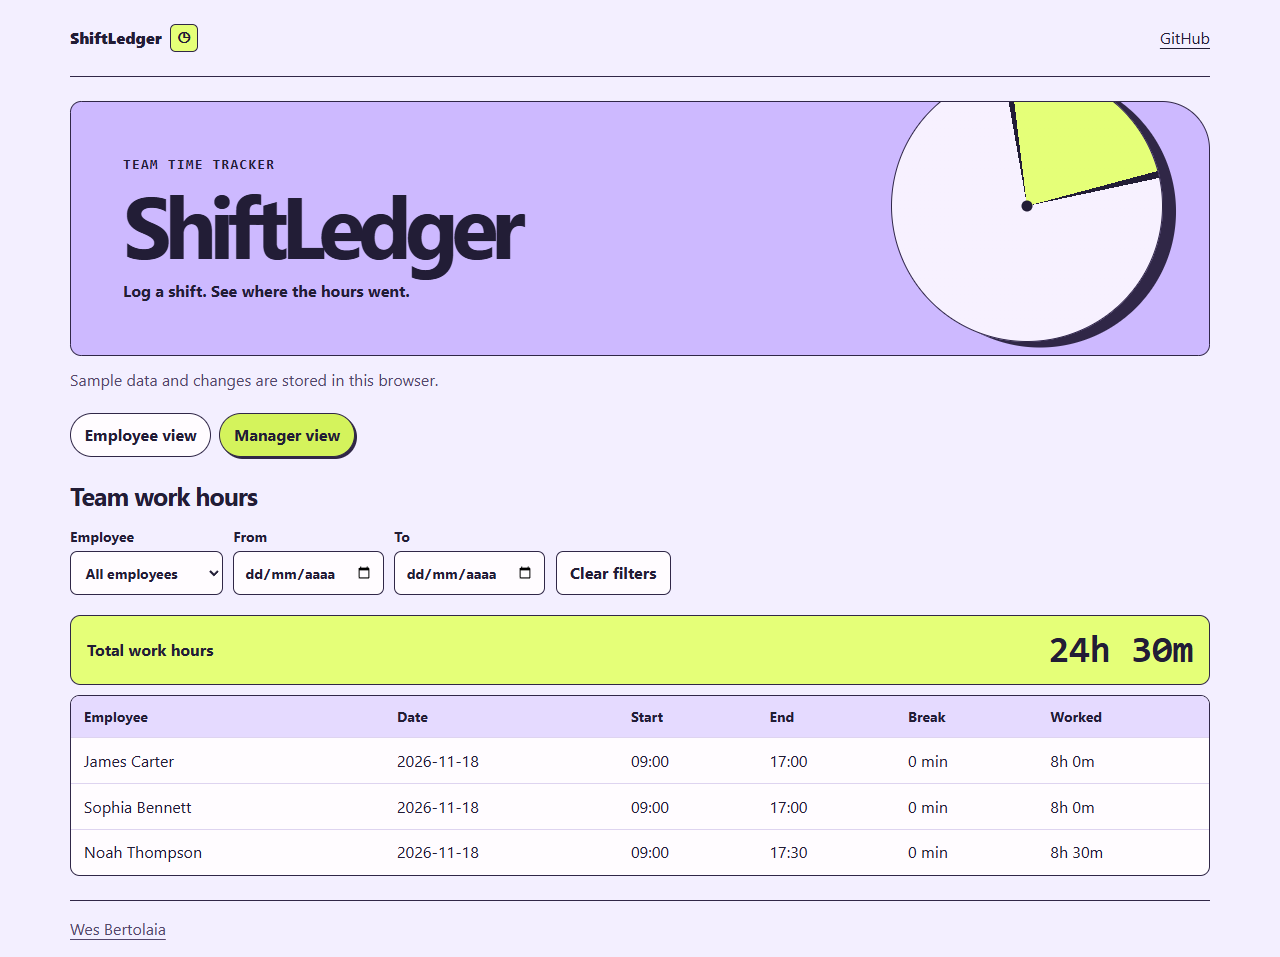
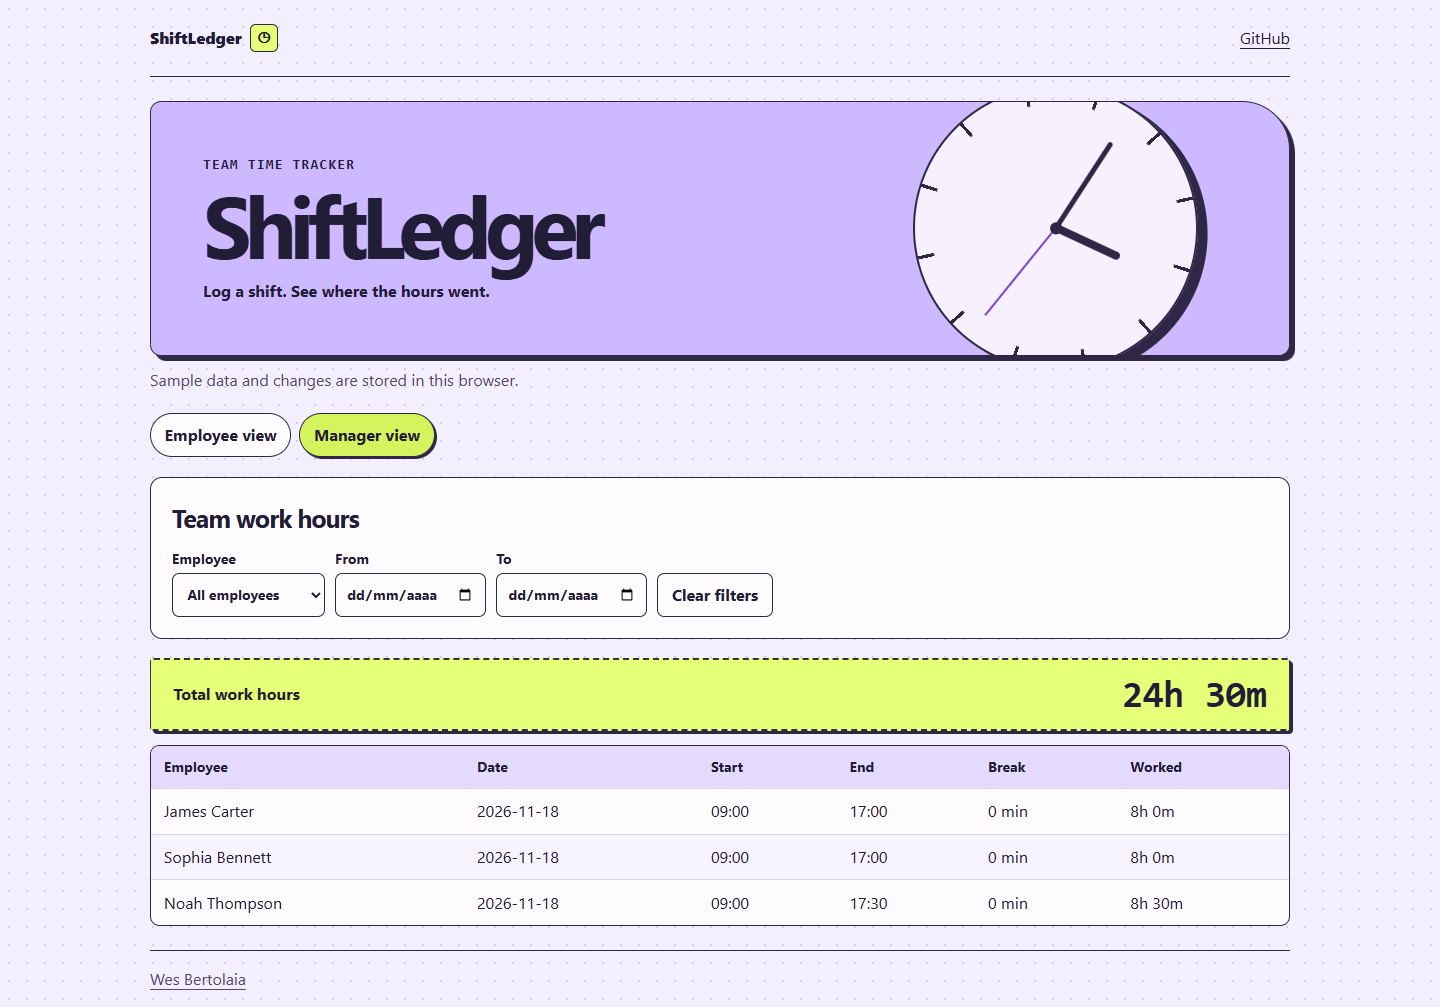
Animate the ShiftLedger clock and time cards

Changed region(s): [[0.0312, 0.0, 0.9688, 0.9091], [0.0625, 0.9394, 0.875, 1.0], [0.75, 0.2424, 0.7812, 0.2727]]

diff --git a/public/style.css b/public/style.css
@@ -26,13 +26,6 @@ a { color: inherit; text-underline-offset: .25em; }
   border: 1px solid var(--line); border-radius: .7rem 3rem .7rem .7rem;
   background: #cdb9ff;
 }
-.demo-header::after {
-  position: absolute; z-index: -1;
-  content: ""; width: 270px; height: 270px; right: 4%; top: -32px;
-  background: radial-gradient(circle at center, #221d36 0 5px, transparent 6px), conic-gradient(from 12deg, #221d36 0deg 3deg, #e5ff78 3deg 85deg, #221d36 85deg 88deg, #f7f1ff 88deg 360deg);
-  border: 1px solid var(--line); border-radius: 50%;
-  transform: rotate(-22deg); box-shadow: 10px 10px 0 var(--line);
-}
 .eyebrow { margin: 0 0 .45rem; font: 700 .875rem/1.5 ui-monospace, monospace; letter-spacing: .09em; }
 h1, h3, p { margin: 0; }
 h1 { font-size: clamp(2.65rem, 8vw, 5.45rem); line-height: .95; letter-spacing: -.085em; }
@@ -63,6 +56,63 @@ tr:last-child td { border-bottom: 0; }
 td:nth-child(2) { font-variant-numeric: tabular-nums; }
 footer { border-top: 1px solid var(--line); color: var(--muted); }
 @media (max-width: 760px) {
-  .demo-header::after { right: -140px; top: -105px; opacity: .28; }
   .demo-header { min-height: 170px; }
+}
+
+body {
+  background-color: var(--paper);
+  background-image: radial-gradient(#37275427 1px, transparent 1px);
+  background-size: 18px 18px;
+}
+.demo-header { background: #cdb9ff; min-height: 238px; box-shadow: 5px 5px 0 var(--line); }
+.clock::after { content: ""; position: absolute; inset: calc(50% - 6px); border-radius: 50%; background: var(--line); }
+.hand {
+  position: absolute;
+  bottom: 50%;
+  left: calc(50% - 2px);
+  width: 5px;
+  height: 36%;
+  background: var(--line);
+  border-radius: 100px;
+  transform-origin: 50% 100%;
+  transform: rotate(46deg);
+}
+.hand.short { height: 25%; width: 8px; left: calc(50% - 4px); transform: rotate(128deg); }
+.hand.sweep { width: 2px; left: calc(50% - 1px); height: 40%; background: #7540c5; transform: rotate(232deg); }
+.mode-panel {
+  padding: clamp(.85rem, 2.3vw, 1.3rem);
+  border: 1px solid var(--line);
+  border-radius: .75rem;
+  background: var(--white);
+}
+.mode-panel :is(form, .filters) { margin-bottom: 0; }
+.summary {
+  position: relative;
+  gap: 1rem;
+  padding-inline: 1.4rem;
+  border-top: 2px dashed var(--line);
+  border-bottom: 2px dashed var(--line);
+  border-radius: .25rem;
+  box-shadow: 3px 3px 0 var(--line);
+}
+.table-wrap { margin-top: .9rem; }
+tbody tr:nth-child(even) td { background: #f8f4ff; }
+tbody tr:hover td { background: #f0e8fc; }
+@keyframes clock-sweep {
+  from { transform: rotate(-128deg); }
+  to { transform: rotate(232deg); }
+}
+@keyframes time-card-in {
+  from { opacity: 0; transform: translateY(7px) scale(.99); }
+  to { opacity: 1; transform: translateY(0) scale(1); }
+}
+@media (prefers-reduced-motion: no-preference) {
+  .hand.sweep { animation: clock-sweep 1.3s cubic-bezier(.2,.75,.3,1); }
+  .mode-panel, .notice:not(:empty) { animation: time-card-in .26s ease-out both; }
+  .summary strong:last-child { animation: time-card-in .3s ease-out both; }
+  button { transition: background-color .16s ease, box-shadow .16s ease, transform .16s ease; }
+}
+@media (max-width: 760px) {
+  .demo-header { min-height: 186px; }
+  .clock { right: -96px; width: 200px; opacity: .43; }
 }

diff --git a/shiftledger.jsx b/shiftledger.jsx
@@ -55,6 +55,7 @@ function ShiftLedger() {
       {['employee', 'manager'].map((mode) => <button key={mode} type="button" aria-pressed={role === mode}
         onClick={() => { setRole(mode); setNotice(''); }}>{mode === 'employee' ? 'Employee view' : 'Manager view'}</button>)}
     </div>
+    <div className="mode-panel" key={role}>
     {role === 'employee' ? <>
       <h3>Log a shift</h3>
       <form onSubmit={logShift}>
@@ -78,8 +79,9 @@ function ShiftLedger() {
         <button className="secondary" type="button" onClick={() => { setFilter(''); setFrom(''); setTo(''); }}>Clear filters</button>
       </div>
     </>}
+    </div>
     <p className="notice" role="status">{notice}</p>
-    <div className="summary"><strong>Total work hours</strong><strong>{format(total)}</strong></div>
+    <div className="summary"><strong>Total work hours</strong><strong key={total}>{format(total)}</strong></div>
     <div className="table-wrap" tabIndex="0" aria-label="Work hours"><table>
       <thead><tr><th>Employee</th><th>Date</th><th>Start</th><th>End</th><th>Break</th><th>Worked</th></tr></thead>
       <tbody>{visible.length ? visible.map((entry) => <tr key={entry.id}>

diff --git a/public/index.html b/public/index.html
@@ -23,6 +23,7 @@
           <p class="eyebrow">TEAM TIME TRACKER</p>
           <h1 id="demo-title">ShiftLedger</h1><p class="tagline">Log a shift. See where the hours went.</p>
         </div>
+        <div class="clock" aria-hidden="true"><i class="hand"></i><i class="hand short"></i><i class="hand sweep"></i></div>
       </header>
       <p class="help">Sample data and changes are stored in this browser.</p>
       <div class="demo-app"></div>
